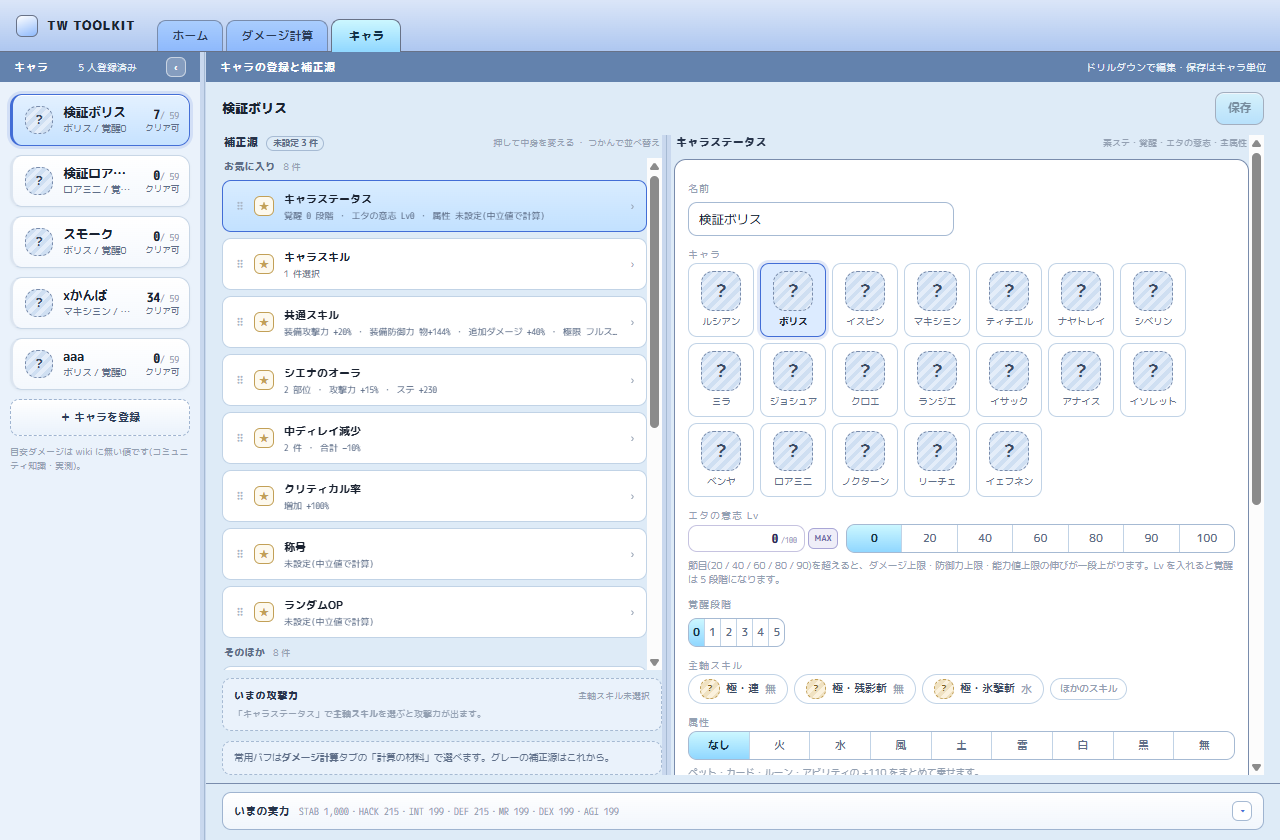
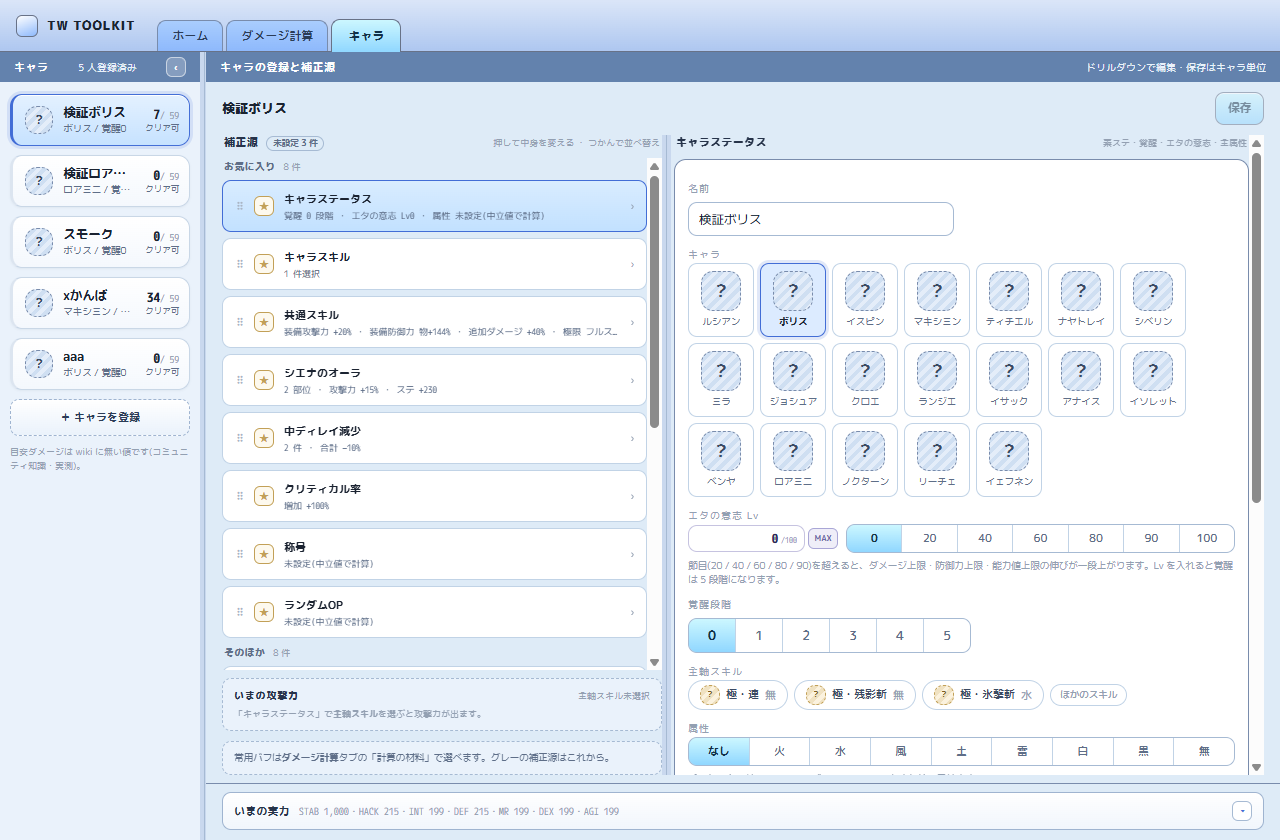
fix(ui): 覚醒段階の段が細すぎたので、押す場所の大きさを先に決める
段が 2 つ(4 / 5)しか無いと、文字なりの幅では押す場所に見えない。
1 段 46px・13px にして、それ以外を開いても同じ大きさのまま並ぶようにした。

Claude-Session: https://claude.ai/code/session_01JvRWxU3ohwNNHW2hQatCCP

Changed region(s): [[0.5312, 0.7429, 0.9062, 0.9286], [0.9375, 0.8667, 0.9688, 0.9286]]

diff --git a/apps/desktop/src/pages/chars/SourcePane.svelte b/apps/desktop/src/pages/chars/SourcePane.svelte
@@ -2144,6 +2144,9 @@
   .pick-grid { display: flex; flex-wrap: wrap; gap: 6px; }
   .stage-field { display: flex; flex-direction: column; gap: 6px; min-width: 0; }
   .stage-row { display: flex; align-items: center; gap: 8px; }
+  /* 段が 2 つしか無いと、幅なりでは細すぎて押す場所に見えない。段の大きさを先に決める */
+  .stage-row > :global(.step-select) { flex: none; }
+  .stage-row :global(.seg button) { min-width: 46px; padding: 7px 0; font-size: 13px; }
   .skill-row { display: flex; flex-wrap: wrap; align-items: center; gap: 6px; }
   .skill-all { margin-top: 7px; max-width: 320px; }
   .element-auto { margin: 0; display: flex; align-items: center; gap: 8px; font-size: 12px; }
